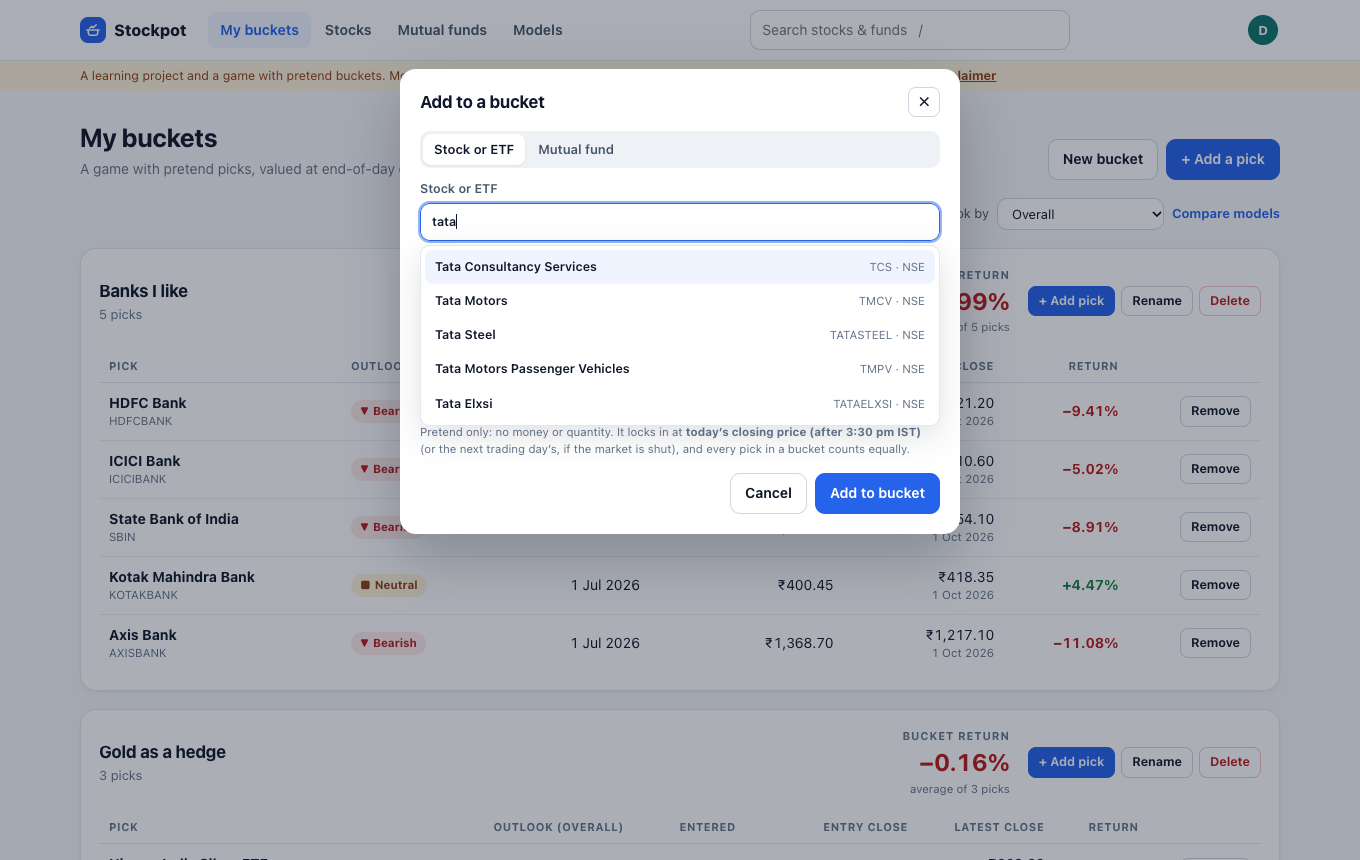
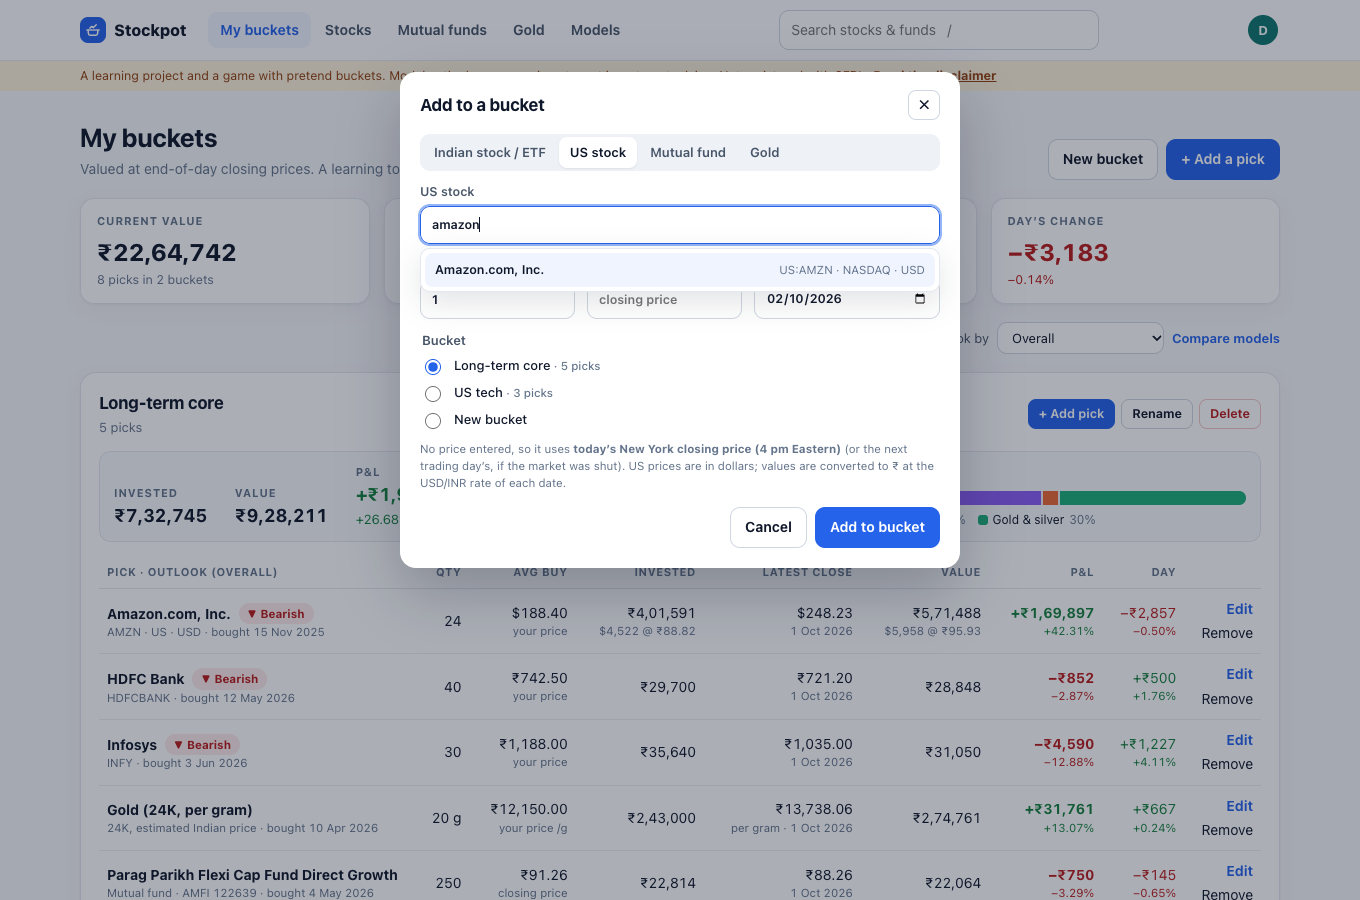
docs: refresh screenshots for quantities, P&L, US stocks and gold

diff --git a/README.md b/README.md
@@ -18,7 +18,7 @@ and see how your ideas would have done at real closing prices.**
 > Nothing here is investment advice, a recommendation or a research report, and the builder is **not registered
 > with SEBI**. Model outlooks are automated experiments; prices can be wrong or late. Don’t use it for real decisions.
 
-![My buckets: three buckets with picks, entry and latest closes, returns and model outlooks](docs/images/buckets.png)
+![My buckets: totals, two buckets with Amazon shares in USD, gold by the gram, Indian stocks and a fund, each with P&L and allocation](docs/images/overview.png)
 
 ## Contents
 
@@ -46,7 +46,11 @@ and see how your ideas would have done at real closing prices.**
 Valuation is end-of-day on purpose: SEBI and the exchanges have warned against virtual-trading games built on
 real-time prices. There is no leaderboard and nothing to win; buckets are private, and nothing connects to a broker.
 
-![Add to bucket dialog with stock search, gold and silver shortcuts, and the lock-in rule](docs/images/add-to-bucket.png)
+![Add to bucket dialog: tabs for Indian stocks, US stocks, mutual funds and gold, with quantity, buy price and date](docs/images/add-to-bucket.png)
+
+| US stocks | Gold, per gram |
+|---|---|
+| ![US stocks tab: about 50 large US companies in US dollars against the S&P 500](docs/images/us-stocks.png) | ![Gold page: estimated Indian price per gram for 24K and 22K, a one-year chart and the calculation](docs/images/gold.png) |
 
 ## Gold, per gram
 
